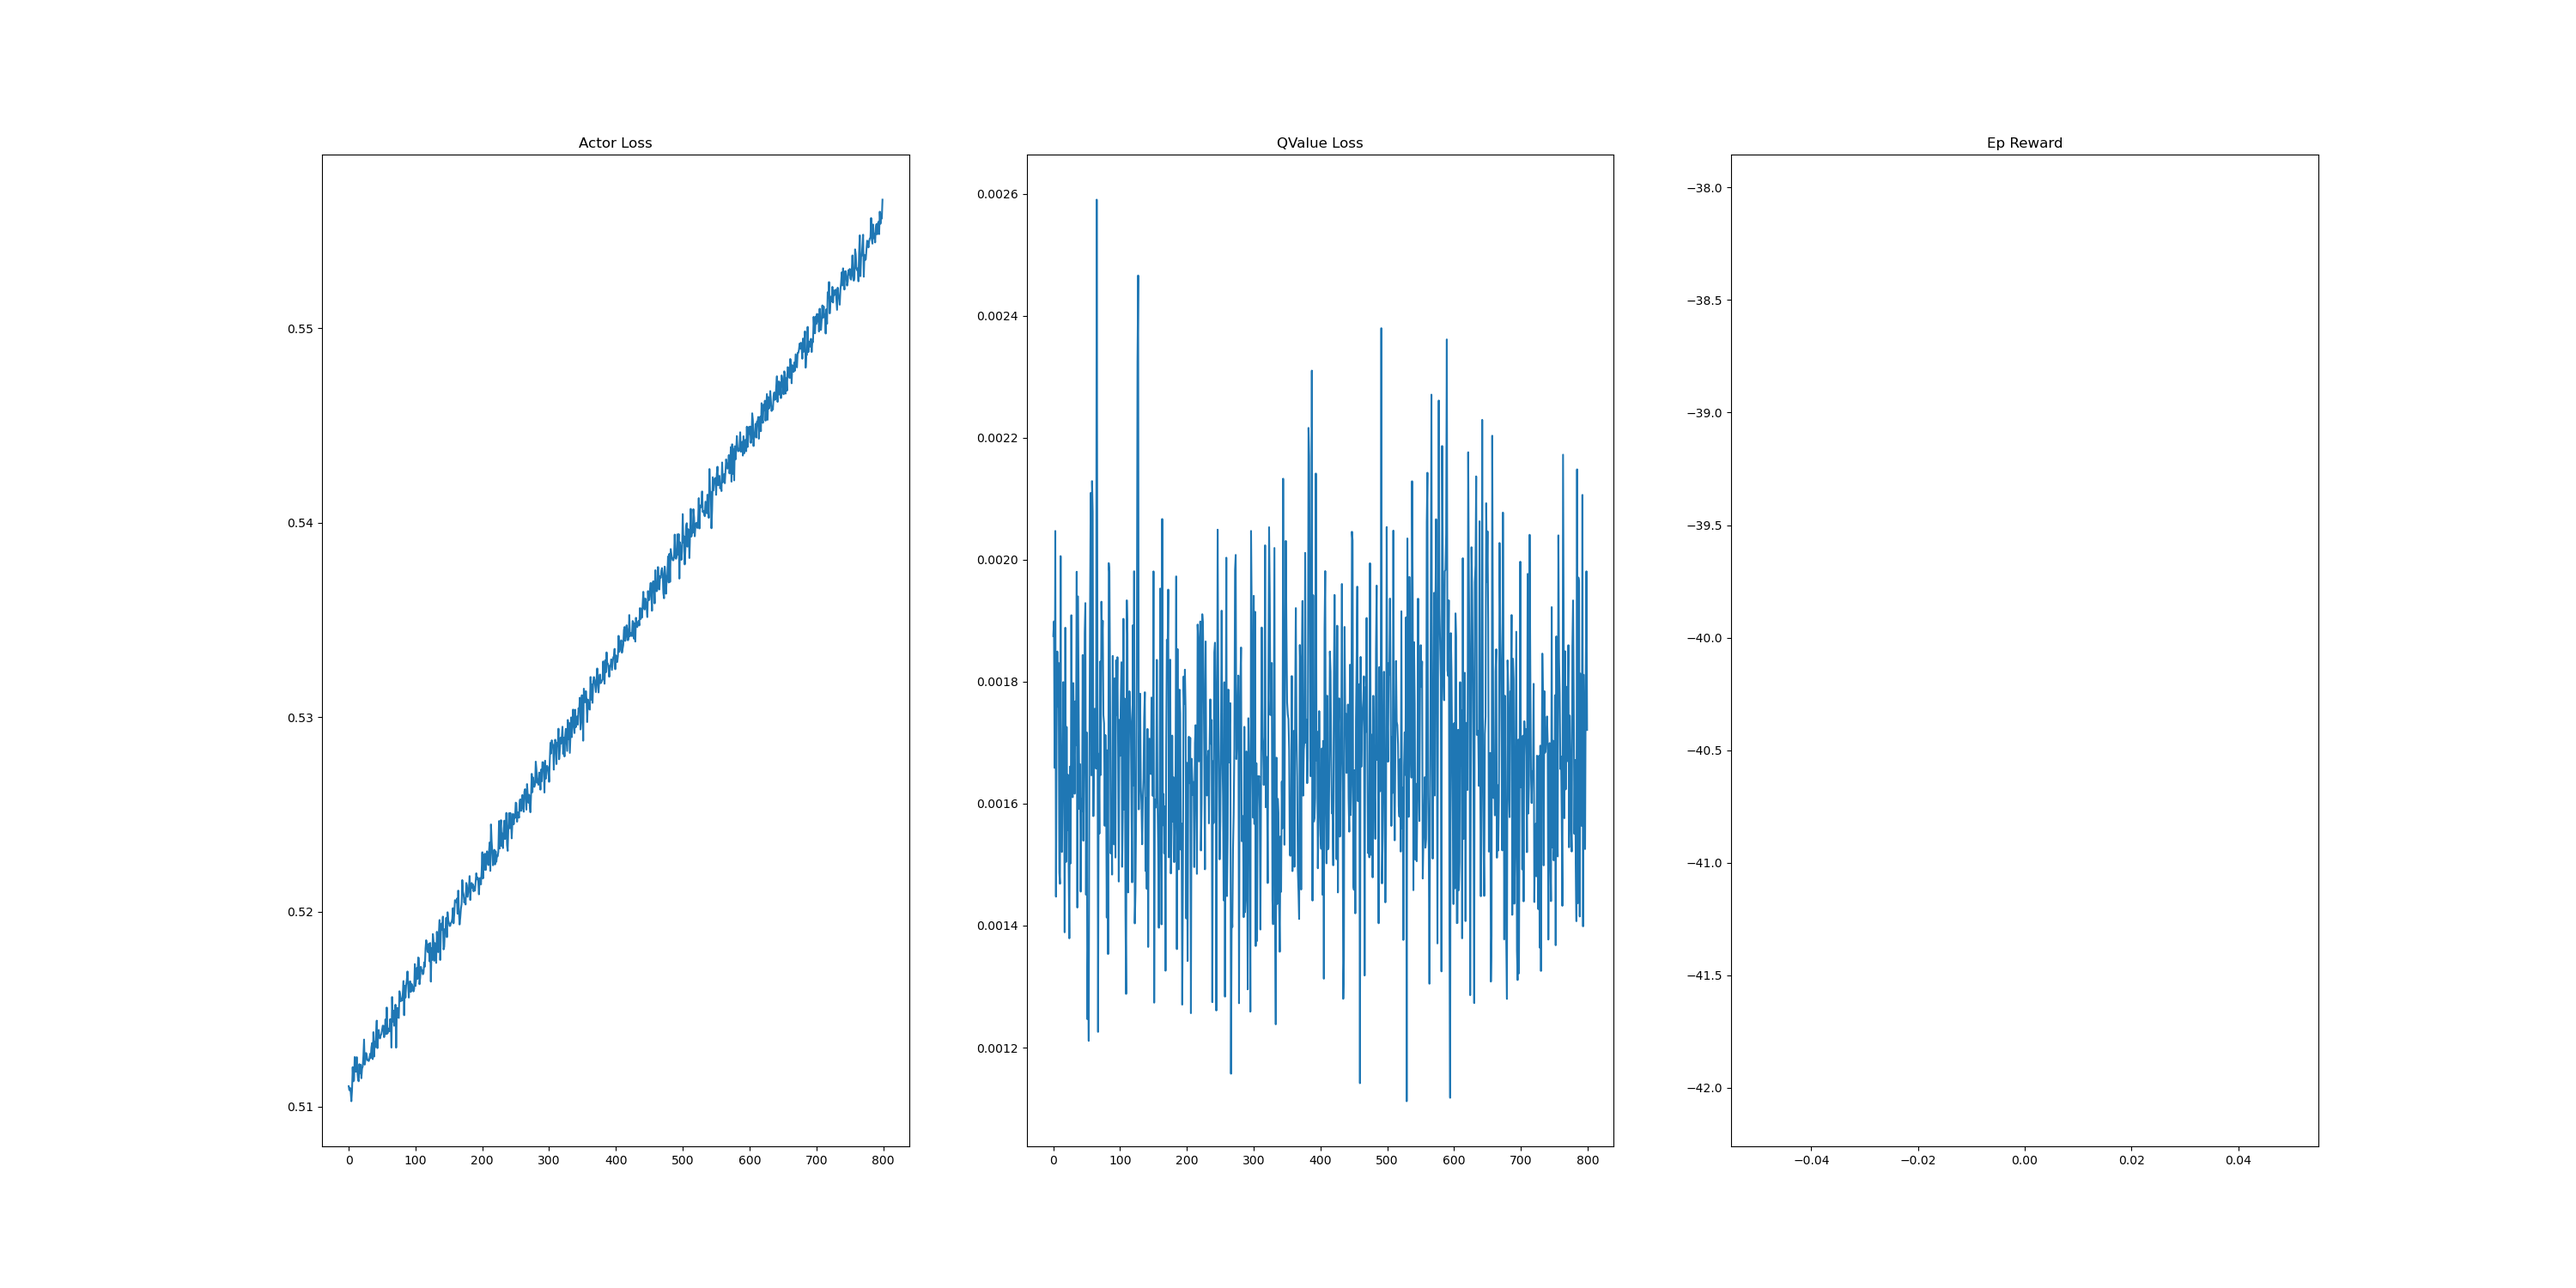
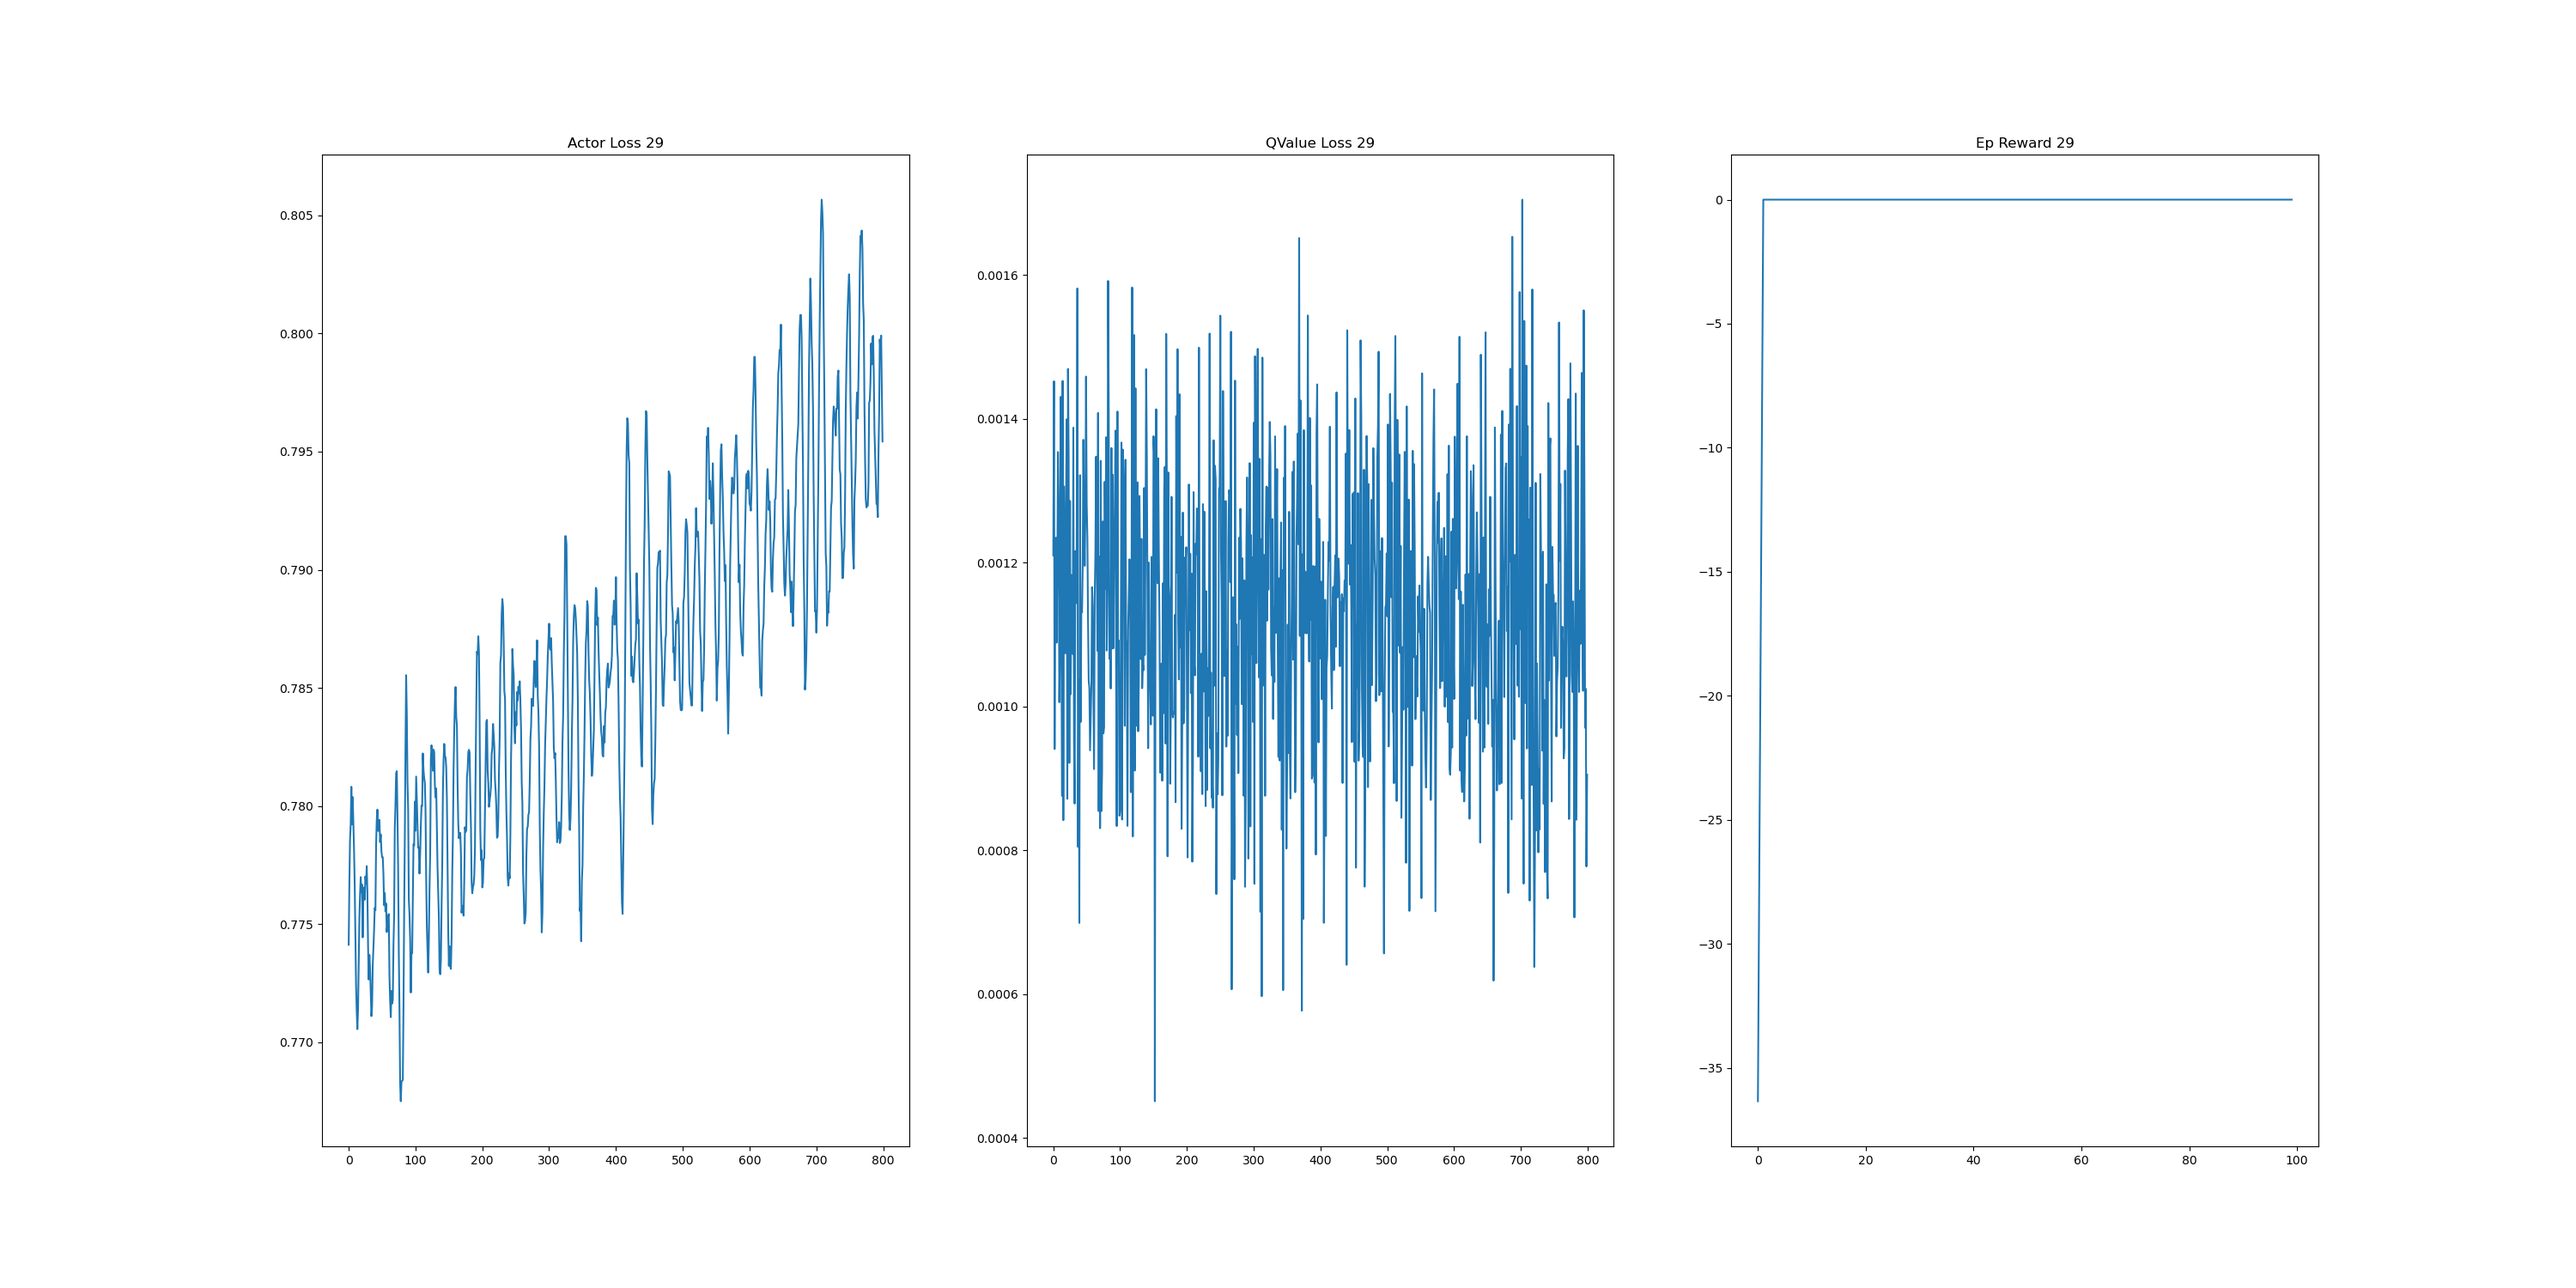
Fix the network updates

diff --git a/ddpg/core.py b/ddpg/core.py
@@ -22,6 +22,7 @@ class Agent:
         self.rb = TensorDictReplayBuffer(storage=LazyTensorStorage(100000), batch_size=32)
         self.device = torch.device('cuda' if torch.cuda.is_available() else 'cpu')
         self.actor = Actor(self.obs_n, self.action_n).to(self.device)
+        self.actor_target = copy.deepcopy(self.actor).to(self.device)
         self.qvalue = QFunction(self.obs_n+self.action_n).to(self.device)
         self.qvalue_target = copy.deepcopy(self.qvalue).to(self.device)
 
@@ -32,7 +33,7 @@ class Agent:
             obs, _ = self.env.reset()
             done = False
             steps = 0
-            while steps < 800 and done == False:
+            while steps < 999 and done == False:
                 steps += 1
                 action = self.env.action_space.sample()
                 next_obs, reward, done, _, _ = self.env.step(action)
@@ -59,7 +60,7 @@ class Agent:
             done = False 
             obs, _  = self.env.reset()
             ep_reward = 0
-            max_steps = 800
+            max_steps = 999
             while not done and steps < max_steps:
                 action = self.actor(torch.tensor(obs).to(self.device))
                 next_obs, reward, done, _, _ = self.env.step(action.detach().cpu().numpy())
@@ -77,7 +78,6 @@ class Agent:
             epr.append(ep_reward)
 
         for stp in range(0, steps):
-            stp+=1
             data = self.rb.sample()
             obs = data['obs'].to(self.device)
             action = data['action'].to(self.device)
@@ -86,7 +86,7 @@ class Agent:
             done = data['done'].to(self.device)
 
             ## compute targets 
-            predicted_actions = self.actor(next_obs)
+            predicted_actions = self.actor_target(next_obs)
             target_values = self.qvalue_target(torch.cat([next_obs, predicted_actions], dim=1))
 
             target_q = reward + 0.99*(1-done)*(target_values)
@@ -99,18 +99,19 @@ class Agent:
             loss_q.backward()
             self.qvalue.optimizer.step()
 
-            actor_pred = self.qvalue_target(torch.cat([obs, self.actor(obs)], dim=1))
+            actor_pred = self.qvalue(torch.cat([obs, self.actor(obs)], dim=1))
             loss_p = -torch.mean(actor_pred,dim=0)
 
             self.actor.optimizer.zero_grad()
             loss_p.backward()
-            self.qvalue.optimizer.step()
+            self.actor.optimizer.step()
 
             loss_qnet.append(loss_q.detach().cpu().numpy())
             loss_anet.append(loss_p.detach().cpu().numpy())
 
             if stp % update_freq == 0:
                 softupdate(self.qvalue_target, self.qvalue, 0.005)
+                softupdate(self.actor_target, self.actor, 0.005)
 
         return loss_anet, loss_qnet, epr
 
@@ -121,13 +122,13 @@ for training_steps in range(0, 100):
     a, b, c = agent.train(100)
     fig, ax = plt.subplots(1, 3, figsize=(30, 15))
     ax[0].plot(np.arange(len(a)), a)
-    ax[0].set_title(f"Actor Loss")
+    ax[0].set_title(f"Actor Loss "+str(training_steps))
 
     ax[1].plot(np.arange(len(b)), b)
-    ax[1].set_title(f"QValue Loss")
+    ax[1].set_title(f"QValue Loss "+str(training_steps))
 
     ax[2].plot(np.arange(len(c)), c)
-    ax[2].set_title(f"Ep Reward")
+    ax[2].set_title(f"Ep Reward "+str(training_steps))
 
     fig.savefig('ddpg.png')
 
